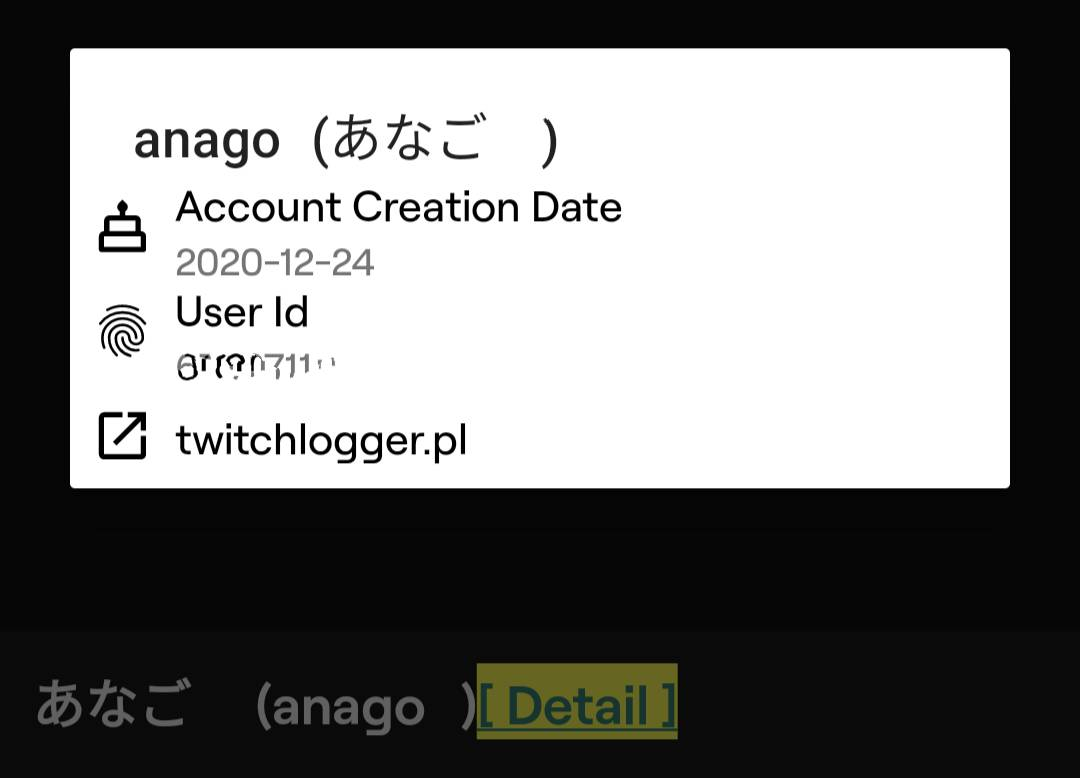
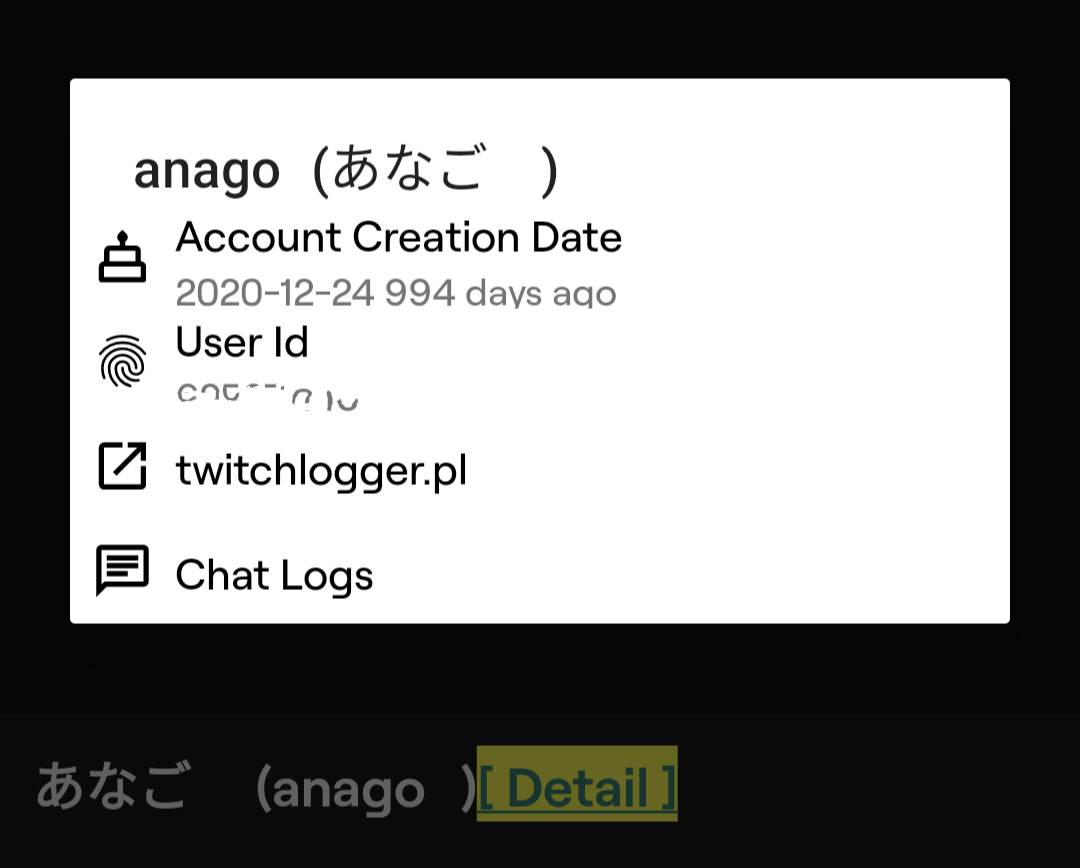
Added message Logs Feature Fixed GlobalScope instead of CoroutineScope Updated README.md

diff --git a/app/src/main/java/com/anago/twitchxposed/hook/ChatUserDialogViewDelegate.kt b/app/src/main/java/com/anago/twitchxposed/hook/ChatUserDialogViewDelegate.kt
@@ -10,15 +10,21 @@ import android.text.method.LinkMovementMethod
 import android.text.style.BackgroundColorSpan
 import android.text.style.ClickableSpan
 import android.view.View
+import android.view.ViewGroup
 import android.widget.ImageView
 import android.widget.LinearLayout
 import android.widget.TextView
 import androidx.core.content.res.ResourcesCompat
+import androidx.recyclerview.widget.LinearLayoutManager
+import androidx.recyclerview.widget.RecyclerView
 import com.anago.twitchxposed.MainHook.Companion.modResource
 import com.anago.twitchxposed.R
+import com.anago.twitchxposed.database.AppDatabase.Companion.getDB
+import com.anago.twitchxposed.database.entity.UserChatMessage
 import com.anago.twitchxposed.hook.base.BaseHook
 import com.anago.twitchxposed.utils.DateUtils.calculateDaysDiff
-import com.anago.twitchxposed.utils.DateUtils.toFormattedDate
+import com.anago.twitchxposed.utils.DateUtils.millisToFormattedDate
+import com.anago.twitchxposed.utils.DateUtils.secToFormattedDate
 import com.anago.twitchxposed.utils.StringUtils.textCopy
 import com.anago.twitchxposed.utils.UrlUtils.openWebPage
 import com.anago.twitchxposed.utils.ViewUtils.layoutInflater
@@ -26,6 +32,11 @@ import com.anago.twitchxposed.utils.xposed.FieldUtils.getField
 import de.robv.android.xposed.XC_MethodHook
 import de.robv.android.xposed.XposedBridge
 import de.robv.android.xposed.XposedHelpers
+import kotlinx.coroutines.DelicateCoroutinesApi
+import kotlinx.coroutines.Dispatchers
+import kotlinx.coroutines.GlobalScope
+import kotlinx.coroutines.launch
+import kotlinx.coroutines.withContext
 
 class ChatUserDialogViewDelegate(private val classLoader: ClassLoader) : BaseHook(classLoader) {
     private val clazz by lazy {
@@ -111,7 +122,7 @@ class ChatUserDialogViewDelegate(private val classLoader: ClassLoader) : BaseHoo
         val userId: Int = chatUser.getField("userId")
         val displayName: String = chatUser.getField("displayName")
         val username: String = chatUser.getField("username")
-        val formattedDate = createDateMillis.toFormattedDate("yyyy-MM-dd")
+        val formattedDate = createDateMillis.millisToFormattedDate("yyyy-MM-dd")
         val daysAgo = "${calculateDaysDiff(createDateMillis, System.currentTimeMillis())} days ago"
 
         val linearLayout = LinearLayout(context).apply {
@@ -137,11 +148,73 @@ class ChatUserDialogViewDelegate(private val classLoader: ClassLoader) : BaseHoo
             ) {
                 openWebPage(context, "https://twitchlogger.pl/tracker/${username}")
             })
+
+            addView(createDetailItem(
+                context, this, R.drawable.ic_chat, "Chat Logs", null
+            ) {
+                showMessageLogsDialog(context, displayName, userId)
+            })
         }
 
         AlertDialog.Builder(context).apply {
             setTitle("$username(${displayName})")
             setView(linearLayout)
         }.show()
+    }
+
+    @OptIn(DelicateCoroutinesApi::class)
+    private fun showMessageLogsDialog(context: Context, displayName: String, userId: Int) {
+        val recyclerView = RecyclerView(context).apply {
+            layoutManager = LinearLayoutManager(context)
+        }
+        val dialog = AlertDialog.Builder(context).apply {
+            setTitle("Message Logs")
+            setView(recyclerView)
+        }.show()
+
+        GlobalScope.launch(Dispatchers.IO) {
+            val messages = getDB().userChatMessageDao().getAllMessagesByUserId(userId)
+            withContext(Dispatchers.Main) {
+                dialog.setTitle("${messages.size} Message Logs")
+                recyclerView.adapter = MessageLogAdapter(context, messages)
+            }
+        }
+    }
+
+    private class MessageLogAdapter(
+        private val context: Context,
+        private val list: List<UserChatMessage>
+    ) :
+        RecyclerView.Adapter<MessageLogAdapter.ViewHolder>() {
+        class ViewHolder(itemView: View) : RecyclerView.ViewHolder(itemView) {
+            val name: TextView = itemView.findViewById(R.id.name)
+            val timestamp: TextView = itemView.findViewById(R.id.time)
+            val message: TextView = itemView.findViewById(R.id.message)
+        }
+
+        override fun onCreateViewHolder(
+            parent: ViewGroup,
+            viewType: Int
+        ): ViewHolder {
+            val layoutId = modResource.getLayout(R.layout.dialog_message_item)
+            val view = context.layoutInflater.inflate(layoutId, parent, false)
+            return ViewHolder(view)
+        }
+
+        @SuppressLint("SetTextI18n")
+        override fun onBindViewHolder(holder: ViewHolder, position: Int) {
+            val item = list[position]
+            if (item.displayName == item.userName) {
+                holder.name.text = item.userName
+            } else {
+                holder.name.text = "${item.displayName}(${item.userName})"
+            }
+            holder.timestamp.text = item.timestamp.secToFormattedDate("MM/dd HH:mm:ss")
+            holder.message.text = item.message
+        }
+
+        override fun getItemCount(): Int {
+            return list.size
+        }
     }
 }

diff --git a/app/src/main/java/com/anago/twitchxposed/hook/MessageRecyclerItem.kt b/app/src/main/java/com/anago/twitchxposed/hook/MessageRecyclerItem.kt
@@ -6,6 +6,8 @@ import android.graphics.drawable.Drawable
 import android.text.SpannableStringBuilder
 import android.text.Spanned
 import androidx.core.text.set
+import com.anago.twitchxposed.database.AppDatabase.Companion.getDB
+import com.anago.twitchxposed.database.entity.UserChatMessage
 import com.anago.twitchxposed.hook.base.BaseHook
 import com.anago.twitchxposed.hook.emote.EmoteManager
 import com.anago.twitchxposed.utils.Logger.logE
@@ -13,6 +15,10 @@ import com.anago.twitchxposed.utils.xposed.FieldUtils.getStaticField
 import de.robv.android.xposed.XC_MethodHook
 import de.robv.android.xposed.XposedBridge
 import de.robv.android.xposed.XposedHelpers
+import kotlinx.coroutines.DelicateCoroutinesApi
+import kotlinx.coroutines.Dispatchers
+import kotlinx.coroutines.GlobalScope
+import kotlinx.coroutines.launch
 
 class MessageRecyclerItem(private val classLoader: ClassLoader) : BaseHook(classLoader) {
     private val clazz by lazy {
@@ -40,11 +46,37 @@ class MessageRecyclerItem(private val classLoader: ClassLoader) : BaseHook(class
         )
     }
 
+    @OptIn(DelicateCoroutinesApi::class)
     override fun hook() {
         XposedBridge.hookAllConstructors(clazz, object : XC_MethodHook() {
             override fun beforeHookedMethod(param: MethodHookParam) {
                 val context = param.args[0] as Context
                 param.args[6] = addEmotes(context, param.args[6] as Spanned)
+            }
+
+            override fun afterHookedMethod(param: MethodHookParam) {
+                if (param.args.size != 16) {
+                    return
+                }
+                val messageId = param.args[1] as String
+                val userId = param.args[2] as Int
+                val username = param.args[3] as String
+                val displayName = param.args[4] as String
+                val messageTimestamp = param.args[5] as Int
+                val message = param.args[13] as String
+
+                GlobalScope.launch(Dispatchers.IO) {
+                    getDB().userChatMessageDao().insertMessage(
+                        UserChatMessage(
+                            messageId = messageId,
+                            userId = userId,
+                            userName = username,
+                            displayName = displayName,
+                            message = message,
+                            timestamp = messageTimestamp
+                        )
+                    )
+                }
             }
         })
     }

diff --git a/app/src/main/java/com/anago/twitchxposed/hook/TwitchApplication.kt b/app/src/main/java/com/anago/twitchxposed/hook/TwitchApplication.kt
@@ -1,14 +1,16 @@
 package com.anago.twitchxposed.hook
 
 import android.app.Application
+import com.anago.twitchxposed.database.AppDatabase.Companion.setupDatabase
 import com.anago.twitchxposed.hook.base.BaseHook
 import com.anago.twitchxposed.hook.emote.EmoteManager
 import com.anago.twitchxposed.pref.PRefs.setupPrefs
 import de.robv.android.xposed.XC_MethodHook
 import de.robv.android.xposed.XposedBridge
 import de.robv.android.xposed.XposedHelpers
-import kotlinx.coroutines.CoroutineScope
+import kotlinx.coroutines.DelicateCoroutinesApi
 import kotlinx.coroutines.Dispatchers
+import kotlinx.coroutines.GlobalScope
 import kotlinx.coroutines.launch
 
 class TwitchApplication(private val classLoader: ClassLoader) : BaseHook(classLoader) {
@@ -19,14 +21,16 @@ class TwitchApplication(private val classLoader: ClassLoader) : BaseHook(classLo
         )
     }
 
+    @OptIn(DelicateCoroutinesApi::class)
     override fun hook() {
         XposedBridge.hookAllMethods(clazz, "onCreate", object : XC_MethodHook() {
             override fun beforeHookedMethod(param: MethodHookParam) {
                 val application = param.thisObject as Application
                 setupPrefs(application)
+                setupDatabase(application)
             }
             override fun afterHookedMethod(param: MethodHookParam) {
-                CoroutineScope(Dispatchers.IO).launch {
+                GlobalScope.launch(Dispatchers.IO) {
                     EmoteManager.fetchEmotes()
                 }
             }

diff --git a/app/src/main/java/com/anago/twitchxposed/database/AppDatabase.kt b/app/src/main/java/com/anago/twitchxposed/database/AppDatabase.kt
@@ -1,0 +1,31 @@
+package com.anago.twitchxposed.database
+
+import android.app.Application
+import androidx.room.Database
+import androidx.room.Room
+import androidx.room.RoomDatabase
+import com.anago.twitchxposed.database.dao.UserChatMessageDao
+import com.anago.twitchxposed.database.entity.UserChatMessage
+
+@Database(entities = [UserChatMessage::class], version = 1)
+abstract class AppDatabase : RoomDatabase() {
+    abstract fun userChatMessageDao(): UserChatMessageDao
+
+    companion object {
+        private lateinit var database: AppDatabase
+
+        fun getDB(): AppDatabase {
+            return database
+        }
+
+        fun setupDatabase(application: Application) {
+            if (::database.isInitialized) {
+                return
+            }
+            database = Room.databaseBuilder(
+                application,
+                AppDatabase::class.java, "mod"
+            ).build()
+        }
+    }
+}

diff --git a/app/src/main/java/com/anago/twitchxposed/utils/DateUtils.kt b/app/src/main/java/com/anago/twitchxposed/utils/DateUtils.kt
@@ -7,9 +7,13 @@ import java.util.concurrent.TimeUnit
 
 object DateUtils {
     /** yyyy-MM-dd HH:mm:ss **/
-    fun Long.toFormattedDate(dateFormat: String): String {
+    fun Long.millisToFormattedDate(dateFormat: String): String {
         val simpleDateFormat = SimpleDateFormat(dateFormat, Locale.getDefault())
         return simpleDateFormat.format(Date(this))
+    }
+
+    fun Int.secToFormattedDate(dateFormat: String): String {
+        return (this * 1000L).millisToFormattedDate(dateFormat)
     }
 
     fun calculateDaysDiff(fromDateMillis: Long, toDateMillis: Long): Int {

diff --git a/app/src/main/java/com/anago/twitchxposed/database/dao/UserChatMessageDao.kt b/app/src/main/java/com/anago/twitchxposed/database/dao/UserChatMessageDao.kt
@@ -1,0 +1,16 @@
+package com.anago.twitchxposed.database.dao
+
+import androidx.room.Dao
+import androidx.room.Insert
+import androidx.room.OnConflictStrategy
+import androidx.room.Query
+import com.anago.twitchxposed.database.entity.UserChatMessage
+
+@Dao
+interface UserChatMessageDao {
+    @Query("SELECT * FROM userchatmessage WHERE userId = :userId ORDER by timestamp desc")
+    fun getAllMessagesByUserId(userId: Int): List<UserChatMessage>
+
+    @Insert(onConflict = OnConflictStrategy.IGNORE)
+    suspend fun insertMessage(message: UserChatMessage)
+}

diff --git a/app/src/main/java/com/anago/twitchxposed/database/entity/UserChatMessage.kt b/app/src/main/java/com/anago/twitchxposed/database/entity/UserChatMessage.kt
@@ -1,0 +1,15 @@
+package com.anago.twitchxposed.database.entity
+
+import androidx.room.ColumnInfo
+import androidx.room.Entity
+import androidx.room.PrimaryKey
+
+@Entity
+data class UserChatMessage(
+    @PrimaryKey val messageId: String,
+    @ColumnInfo("userId") val userId: Int,
+    @ColumnInfo("userName") val userName: String,
+    @ColumnInfo("displayName") val displayName: String,
+    @ColumnInfo("message") val message: String,
+    @ColumnInfo("timestamp") val timestamp: Int
+)

diff --git a/README.md b/README.md
@@ -3,6 +3,7 @@
 - prevent messages from clear by moderator
 - supported betterttv emotes
 - view chat user details
+- user chat message logs
 # Supported Twitch Versions
 - Twitch 16.2.0 ([apkcombo](https://apkcombo.com/twitch/tv.twitch.android.app/download/phone-16.2.0-apk))
 - Twitch 16.1.0 ([apkcombo](https://apkcombo.com/twitch/tv.twitch.android.app/download/phone-16.1.0-apk))
